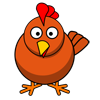
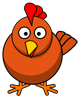
Crop chicken image.

diff --git a/Classes/Chicken.cpp b/Classes/Chicken.cpp
@@ -16,8 +16,8 @@ Chicken::Chicken(GameLayer * gameLayer)
 	_xMoveDistance = _yMoveDistance; //TODO: scale this value?
 	//_xMoveDistance = windowSize.width / 10;
 
-	float originalWidth = 100;
-	float originalHeight = 100;
+	float originalWidth = 79;
+	float originalHeight = 98;
 	_sprite = CCSprite::create("chicken_xxsmall.png", CCRectMake(0, 0, originalWidth, originalHeight));
 	_sprite->setAnchorPoint(ccp(0,0));
 
